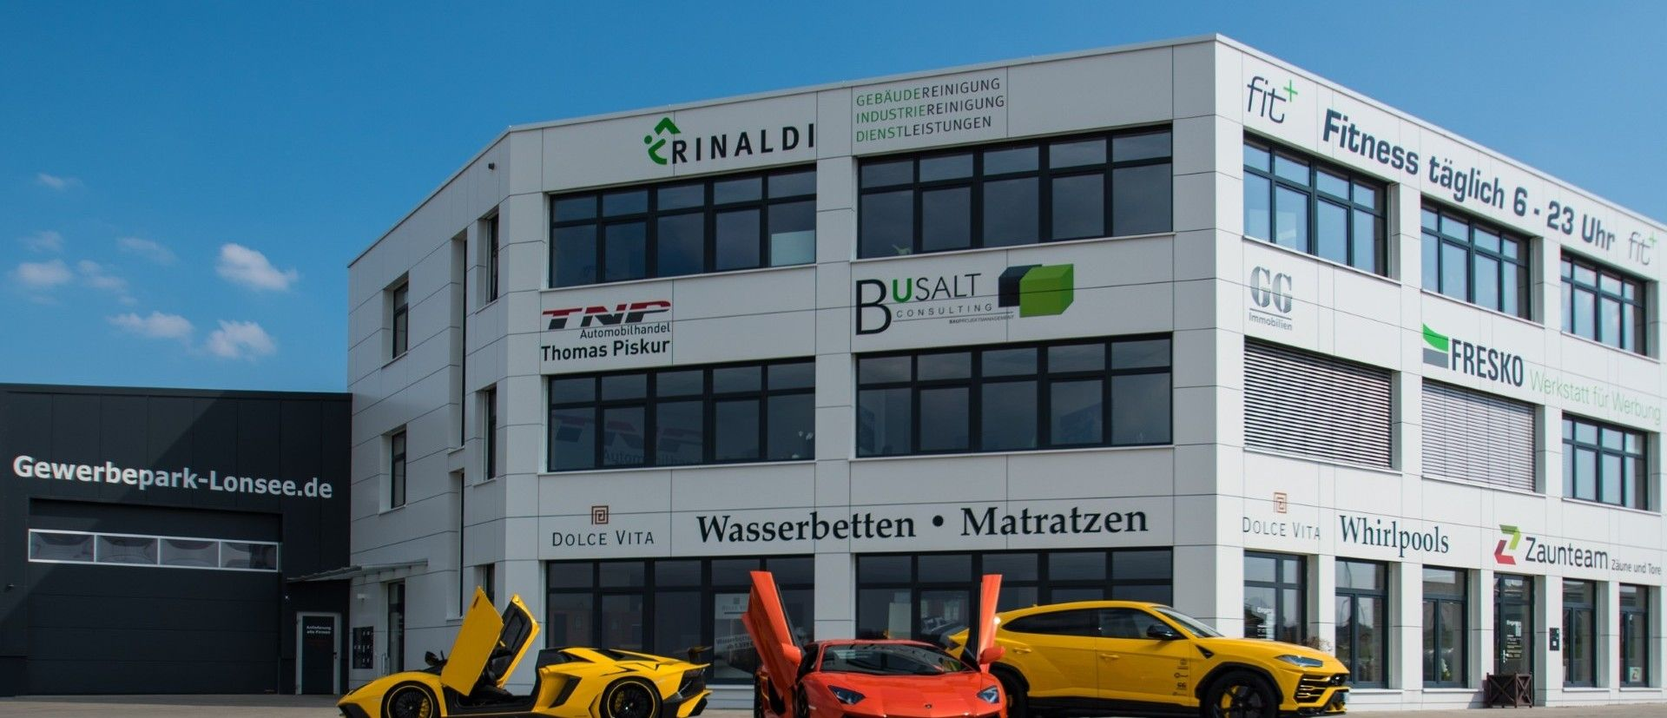
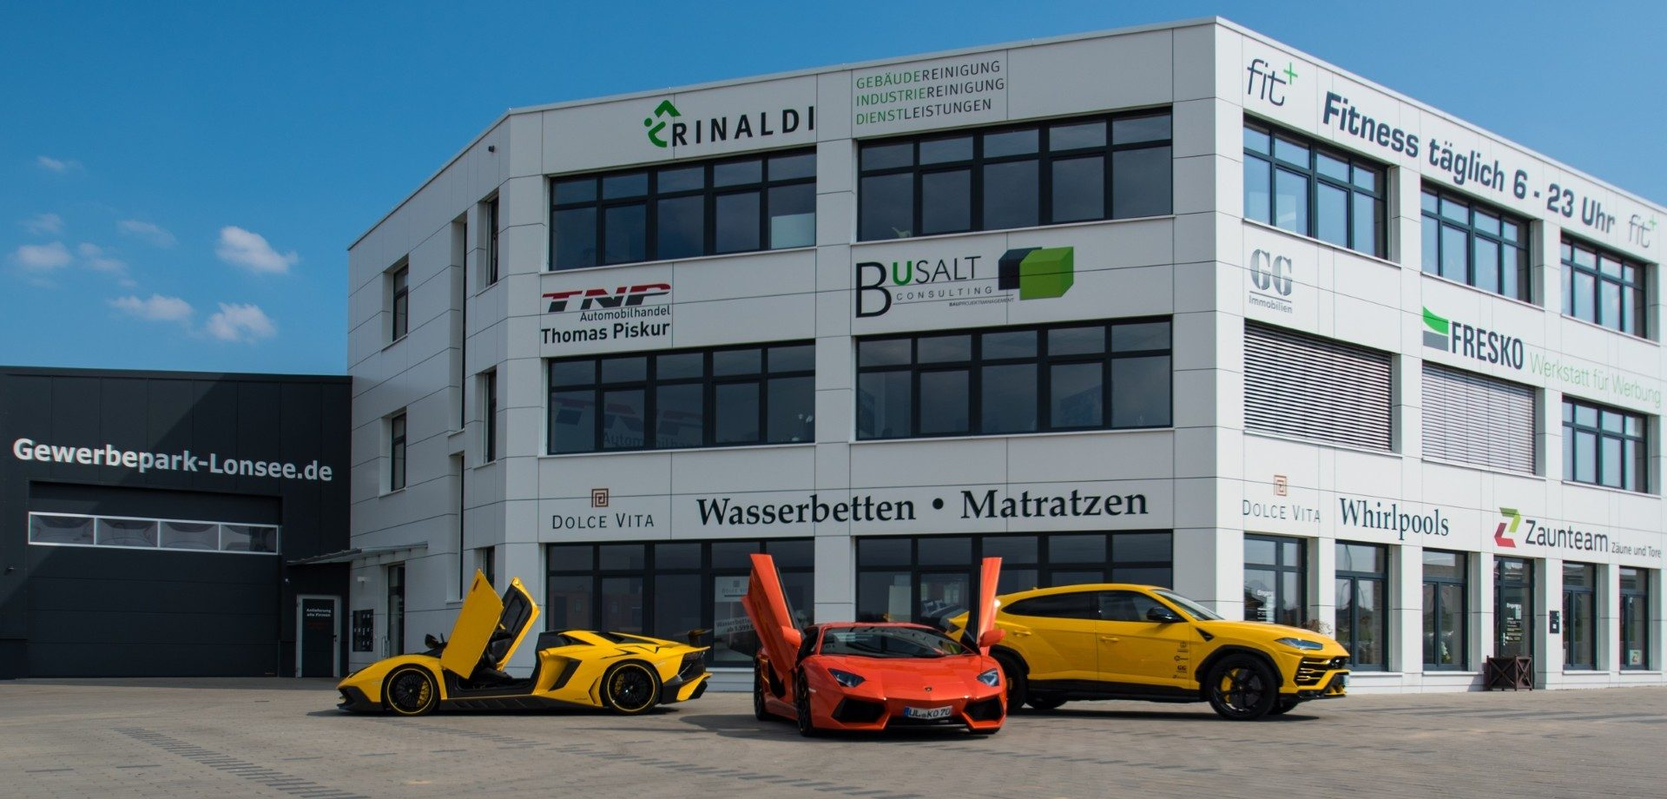
Weniger Leerraum, Fassadenbild mit vollständigen Autos
Claude-Session: https://claude.ai/code/session_0171xaWpFsmkeMWdEBsEzAY7

diff --git a/gewerbepark-lonsee/index.html b/gewerbepark-lonsee/index.html
@@ -17,7 +17,7 @@
 <link rel="apple-touch-icon" href="apple-touch-icon.png">
 <link rel="preload" href="assets/fonts/interd-500.woff" as="font" type="font/woff" crossorigin>
 <link rel="preload" href="assets/fonts/inter-400.woff" as="font" type="font/woff" crossorigin>
-<link rel="stylesheet" href="assets/css/style.css?v=202610161233">
+<link rel="stylesheet" href="assets/css/style.css?v=202610161240">
 <script type="application/ld+json">{"@context": "https://schema.org", "@type": "Organization", "name": "Gewerbepark Lonsee", "legalName": "GG Vertriebs- und Vermietung GbR", "url": "https://gewerbepark-lonsee.de", "telephone": "+491743232949", "logo": "https://gewerbepark-lonsee.de/apple-touch-icon.png", "address": {"@type": "PostalAddress", "streetAddress": "Nelkenstraße 14", "postalCode": "89173", "addressLocality": "Lonsee", "addressCountry": "DE"}}</script>
 </head>
 <body>
@@ -70,7 +70,7 @@
 <div class="finder-wrap"><section class="finder" id="wer-sitzt-wo-start" data-finder>
  <div class="finder-head"><div class="finder-intro"><span class="kicker">Mieter-Finder · Gewerbepark 1</span><h2>Wer sitzt <em>wo?</em></h2><p class="sub">Fahren Sie über die Fassade oder wählen Sie eine Firma aus der Liste.</p></div><a class="btn ghost sm" href="mieter.html">Alle Mieter im Überblick <span class="ar">→</span></a></div>
  <div class="finder-body">
-  <div class="finder-img"><picture><source srcset="assets/img/gp1-band.webp" type="image/webp"><img src="assets/img/gp1-band.jpg" alt="Gewerbepark 1, Fassade mit den Schildern der Mieter" loading="lazy" decoding="async"></picture><button class="spot" type="button" style="left:37.50%;top:19.37%" aria-label="Rinaldi" aria-expanded="false" data-name="Rinaldi" data-desc="Gebäudereinigung, -sanierung" data-logo="assets/logos/rinaldi.png" data-url="http://rinaldi-ulm.de/">1</button><button class="spot" type="button" style="left:34.58%;top:45.04%" aria-label="TNP" aria-expanded="false" data-name="TNP" data-desc="Automobilhandel" data-logo="assets/logos/tnp.png" data-url="https://tnp-auto.de/">2</button><button class="spot" type="button" style="left:50.00%;top:40.68%" aria-label="Busalt Consulting" aria-expanded="false" data-name="Busalt Consulting" data-desc="Bauprojektmanagement" data-logo="assets/logos/busalt.png" data-url="https://www.busalt-consulting.de/">3</button><button class="spot" type="button" style="left:73.75%;top:14.04%" aria-label="fit+" aria-expanded="false" data-name="fit+" data-desc="Fitnessstudio, täglich 6–23 Uhr" data-logo="assets/logos/fitplus.png" data-url="https://lonsee.fitplus-club.de/">4</button><button class="spot" type="button" style="left:74.17%;top:40.19%" aria-label="GG Immobilien" aria-expanded="false" data-name="GG Immobilien" data-desc="Immobilien" data-logo="assets/logos/gg.png" data-url="https://www.ggimmobilien.com/">5</button><button class="spot" type="button" style="left:85.00%;top:49.64%" aria-label="Fresko" aria-expanded="false" data-name="Fresko" data-desc="Werkstatt für Werbung" data-logo="assets/logos/fresko.png" data-url="https://www.fresko.de/">6</button><button class="spot" type="button" style="left:46.88%;top:72.64%" aria-label="Dolce Vita" aria-expanded="false" data-name="Dolce Vita" data-desc="Wasserbetten, Matratzen, Whirlpools" data-logo="assets/logos/dolcevita.png" data-url="https://www.dolcevita-schlafen.de/">7</button><button class="spot" type="button" style="left:88.12%;top:76.51%" aria-label="Zaunteam" aria-expanded="false" data-name="Zaunteam" data-desc="Zaunbau" data-logo="assets/logos/zaunteam.png" data-url="https://www.zaunteam.de/de/ihr-partner/89173-de-zaunteam-ulm/ueber-uns/">8</button></div>
+  <div class="finder-img"><picture><source srcset="assets/img/gp1-band.webp" type="image/webp"><img src="assets/img/gp1-band.jpg" alt="Gewerbepark 1, Fassade mit den Schildern der Mieter" loading="lazy" decoding="async"></picture><button class="spot" type="button" style="left:37.50%;top:15.24%" aria-label="Rinaldi" aria-expanded="false" data-name="Rinaldi" data-desc="Gebäudereinigung, -sanierung" data-logo="assets/logos/rinaldi.png" data-url="http://rinaldi-ulm.de/">1</button><button class="spot" type="button" style="left:34.58%;top:38.31%" aria-label="TNP" aria-expanded="false" data-name="TNP" data-desc="Automobilhandel" data-logo="assets/logos/tnp.png" data-url="https://tnp-auto.de/">2</button><button class="spot" type="button" style="left:50.00%;top:34.39%" aria-label="Busalt Consulting" aria-expanded="false" data-name="Busalt Consulting" data-desc="Bauprojektmanagement" data-logo="assets/logos/busalt.png" data-url="https://www.busalt-consulting.de/">3</button><button class="spot" type="button" style="left:73.75%;top:10.45%" aria-label="fit+" aria-expanded="false" data-name="fit+" data-desc="Fitnessstudio, täglich 6–23 Uhr" data-logo="assets/logos/fitplus.png" data-url="https://lonsee.fitplus-club.de/">4</button><button class="spot" type="button" style="left:74.17%;top:33.95%" aria-label="GG Immobilien" aria-expanded="false" data-name="GG Immobilien" data-desc="Immobilien" data-logo="assets/logos/gg.png" data-url="https://www.ggimmobilien.com/">5</button><button class="spot" type="button" style="left:85.00%;top:42.45%" aria-label="Fresko" aria-expanded="false" data-name="Fresko" data-desc="Werkstatt für Werbung" data-logo="assets/logos/fresko.png" data-url="https://www.fresko.de/">6</button><button class="spot" type="button" style="left:46.88%;top:63.12%" aria-label="Dolce Vita" aria-expanded="false" data-name="Dolce Vita" data-desc="Wasserbetten, Matratzen, Whirlpools" data-logo="assets/logos/dolcevita.png" data-url="https://www.dolcevita-schlafen.de/">7</button><button class="spot" type="button" style="left:88.12%;top:66.60%" aria-label="Zaunteam" aria-expanded="false" data-name="Zaunteam" data-desc="Zaunbau" data-logo="assets/logos/zaunteam.png" data-url="https://www.zaunteam.de/de/ihr-partner/89173-de-zaunteam-ulm/ueber-uns/">8</button></div>
   <ol class="legend" aria-label="Mieter an der Fassade"><li><button type="button"><span class="n">1</span><span class="lg-i"><img src="assets/logos/rinaldi.png" alt="" loading="lazy"></span><span><b>Rinaldi</b><small>Gebäudereinigung, -sanierung</small></span></button></li><li><button type="button"><span class="n">2</span><span class="lg-i"><img src="assets/logos/tnp.png" alt="" loading="lazy"></span><span><b>TNP</b><small>Automobilhandel</small></span></button></li><li><button type="button"><span class="n">3</span><span class="lg-i"><img src="assets/logos/busalt.png" alt="" loading="lazy"></span><span><b>Busalt Consulting</b><small>Bauprojektmanagement</small></span></button></li><li><button type="button"><span class="n">4</span><span class="lg-i"><img src="assets/logos/fitplus.png" alt="" loading="lazy"></span><span><b>fit+</b><small>Fitnessstudio, täglich 6–23 Uhr</small></span></button></li><li><button type="button"><span class="n">5</span><span class="lg-i"><img src="assets/logos/gg.png" alt="" loading="lazy"></span><span><b>GG Immobilien</b><small>Immobilien</small></span></button></li><li><button type="button"><span class="n">6</span><span class="lg-i"><img src="assets/logos/fresko.png" alt="" loading="lazy"></span><span><b>Fresko</b><small>Werkstatt für Werbung</small></span></button></li><li><button type="button"><span class="n">7</span><span class="lg-i"><img src="assets/logos/dolcevita.png" alt="" loading="lazy"></span><span><b>Dolce Vita</b><small>Wasserbetten, Matratzen, Whirlpools</small></span></button></li><li><button type="button"><span class="n">8</span><span class="lg-i"><img src="assets/logos/zaunteam.png" alt="" loading="lazy"></span><span><b>Zaunteam</b><small>Zaunbau</small></span></button></li></ol>
  </div>
  <div class="pop" hidden></div>
@@ -125,6 +125,6 @@
  </div>
  <div class="f-bottom"><span>© <span data-year>2026</span> Gewerbepark Lonsee · GG Vertriebs- und Vermietung GbR</span><nav aria-label="Rechtliches"><a href="impressum.html">Impressum</a><a href="datenschutz.html">Datenschutz</a><a href="lage.html">Anfahrt</a></nav></div>
 </div></footer>
-<script src="assets/js/main.js?v=202610161233" defer></script>
+<script src="assets/js/main.js?v=202610161240" defer></script>
 </body>
 </html>

diff --git a/gewerbepark-lonsee/mieter.html b/gewerbepark-lonsee/mieter.html
@@ -17,7 +17,7 @@
 <link rel="apple-touch-icon" href="apple-touch-icon.png">
 <link rel="preload" href="assets/fonts/interd-500.woff" as="font" type="font/woff" crossorigin>
 <link rel="preload" href="assets/fonts/inter-400.woff" as="font" type="font/woff" crossorigin>
-<link rel="stylesheet" href="assets/css/style.css?v=202610161233">
+<link rel="stylesheet" href="assets/css/style.css?v=202610161240">
 </head>
 <body>
 <a class="skip" href="#inhalt">Zum Inhalt springen</a>
@@ -44,7 +44,7 @@
 <section class="finder" id="wer-sitzt-wo" data-finder>
  <div class="finder-head"><div class="finder-intro"><span class="kicker">Mieter-Finder · Gewerbepark 1</span><h2>Wer sitzt <em>wo?</em></h2><p class="sub">Fahren Sie über die Fassade oder wählen Sie eine Firma aus der Liste.</p></div></div>
  <div class="finder-body">
-  <div class="finder-img"><picture><source srcset="assets/img/gp1-band.webp" type="image/webp"><img src="assets/img/gp1-band.jpg" alt="Gewerbepark 1, Fassade mit den Schildern der Mieter" loading="lazy" decoding="async"></picture><button class="spot" type="button" style="left:37.50%;top:19.37%" aria-label="Rinaldi" aria-expanded="false" data-name="Rinaldi" data-desc="Gebäudereinigung, -sanierung" data-logo="assets/logos/rinaldi.png" data-url="http://rinaldi-ulm.de/">1</button><button class="spot" type="button" style="left:34.58%;top:45.04%" aria-label="TNP" aria-expanded="false" data-name="TNP" data-desc="Automobilhandel" data-logo="assets/logos/tnp.png" data-url="https://tnp-auto.de/">2</button><button class="spot" type="button" style="left:50.00%;top:40.68%" aria-label="Busalt Consulting" aria-expanded="false" data-name="Busalt Consulting" data-desc="Bauprojektmanagement" data-logo="assets/logos/busalt.png" data-url="https://www.busalt-consulting.de/">3</button><button class="spot" type="button" style="left:73.75%;top:14.04%" aria-label="fit+" aria-expanded="false" data-name="fit+" data-desc="Fitnessstudio, täglich 6–23 Uhr" data-logo="assets/logos/fitplus.png" data-url="https://lonsee.fitplus-club.de/">4</button><button class="spot" type="button" style="left:74.17%;top:40.19%" aria-label="GG Immobilien" aria-expanded="false" data-name="GG Immobilien" data-desc="Immobilien" data-logo="assets/logos/gg.png" data-url="https://www.ggimmobilien.com/">5</button><button class="spot" type="button" style="left:85.00%;top:49.64%" aria-label="Fresko" aria-expanded="false" data-name="Fresko" data-desc="Werkstatt für Werbung" data-logo="assets/logos/fresko.png" data-url="https://www.fresko.de/">6</button><button class="spot" type="button" style="left:46.88%;top:72.64%" aria-label="Dolce Vita" aria-expanded="false" data-name="Dolce Vita" data-desc="Wasserbetten, Matratzen, Whirlpools" data-logo="assets/logos/dolcevita.png" data-url="https://www.dolcevita-schlafen.de/">7</button><button class="spot" type="button" style="left:88.12%;top:76.51%" aria-label="Zaunteam" aria-expanded="false" data-name="Zaunteam" data-desc="Zaunbau" data-logo="assets/logos/zaunteam.png" data-url="https://www.zaunteam.de/de/ihr-partner/89173-de-zaunteam-ulm/ueber-uns/">8</button></div>
+  <div class="finder-img"><picture><source srcset="assets/img/gp1-band.webp" type="image/webp"><img src="assets/img/gp1-band.jpg" alt="Gewerbepark 1, Fassade mit den Schildern der Mieter" loading="lazy" decoding="async"></picture><button class="spot" type="button" style="left:37.50%;top:15.24%" aria-label="Rinaldi" aria-expanded="false" data-name="Rinaldi" data-desc="Gebäudereinigung, -sanierung" data-logo="assets/logos/rinaldi.png" data-url="http://rinaldi-ulm.de/">1</button><button class="spot" type="button" style="left:34.58%;top:38.31%" aria-label="TNP" aria-expanded="false" data-name="TNP" data-desc="Automobilhandel" data-logo="assets/logos/tnp.png" data-url="https://tnp-auto.de/">2</button><button class="spot" type="button" style="left:50.00%;top:34.39%" aria-label="Busalt Consulting" aria-expanded="false" data-name="Busalt Consulting" data-desc="Bauprojektmanagement" data-logo="assets/logos/busalt.png" data-url="https://www.busalt-consulting.de/">3</button><button class="spot" type="button" style="left:73.75%;top:10.45%" aria-label="fit+" aria-expanded="false" data-name="fit+" data-desc="Fitnessstudio, täglich 6–23 Uhr" data-logo="assets/logos/fitplus.png" data-url="https://lonsee.fitplus-club.de/">4</button><button class="spot" type="button" style="left:74.17%;top:33.95%" aria-label="GG Immobilien" aria-expanded="false" data-name="GG Immobilien" data-desc="Immobilien" data-logo="assets/logos/gg.png" data-url="https://www.ggimmobilien.com/">5</button><button class="spot" type="button" style="left:85.00%;top:42.45%" aria-label="Fresko" aria-expanded="false" data-name="Fresko" data-desc="Werkstatt für Werbung" data-logo="assets/logos/fresko.png" data-url="https://www.fresko.de/">6</button><button class="spot" type="button" style="left:46.88%;top:63.12%" aria-label="Dolce Vita" aria-expanded="false" data-name="Dolce Vita" data-desc="Wasserbetten, Matratzen, Whirlpools" data-logo="assets/logos/dolcevita.png" data-url="https://www.dolcevita-schlafen.de/">7</button><button class="spot" type="button" style="left:88.12%;top:66.60%" aria-label="Zaunteam" aria-expanded="false" data-name="Zaunteam" data-desc="Zaunbau" data-logo="assets/logos/zaunteam.png" data-url="https://www.zaunteam.de/de/ihr-partner/89173-de-zaunteam-ulm/ueber-uns/">8</button></div>
   <ol class="legend" aria-label="Mieter an der Fassade"><li><button type="button"><span class="n">1</span><span class="lg-i"><img src="assets/logos/rinaldi.png" alt="" loading="lazy"></span><span><b>Rinaldi</b><small>Gebäudereinigung, -sanierung</small></span></button></li><li><button type="button"><span class="n">2</span><span class="lg-i"><img src="assets/logos/tnp.png" alt="" loading="lazy"></span><span><b>TNP</b><small>Automobilhandel</small></span></button></li><li><button type="button"><span class="n">3</span><span class="lg-i"><img src="assets/logos/busalt.png" alt="" loading="lazy"></span><span><b>Busalt Consulting</b><small>Bauprojektmanagement</small></span></button></li><li><button type="button"><span class="n">4</span><span class="lg-i"><img src="assets/logos/fitplus.png" alt="" loading="lazy"></span><span><b>fit+</b><small>Fitnessstudio, täglich 6–23 Uhr</small></span></button></li><li><button type="button"><span class="n">5</span><span class="lg-i"><img src="assets/logos/gg.png" alt="" loading="lazy"></span><span><b>GG Immobilien</b><small>Immobilien</small></span></button></li><li><button type="button"><span class="n">6</span><span class="lg-i"><img src="assets/logos/fresko.png" alt="" loading="lazy"></span><span><b>Fresko</b><small>Werkstatt für Werbung</small></span></button></li><li><button type="button"><span class="n">7</span><span class="lg-i"><img src="assets/logos/dolcevita.png" alt="" loading="lazy"></span><span><b>Dolce Vita</b><small>Wasserbetten, Matratzen, Whirlpools</small></span></button></li><li><button type="button"><span class="n">8</span><span class="lg-i"><img src="assets/logos/zaunteam.png" alt="" loading="lazy"></span><span><b>Zaunteam</b><small>Zaunbau</small></span></button></li></ol>
  </div>
  <div class="pop" hidden></div>
@@ -68,6 +68,6 @@
  </div>
  <div class="f-bottom"><span>© <span data-year>2026</span> Gewerbepark Lonsee · GG Vertriebs- und Vermietung GbR</span><nav aria-label="Rechtliches"><a href="impressum.html">Impressum</a><a href="datenschutz.html">Datenschutz</a><a href="lage.html">Anfahrt</a></nav></div>
 </div></footer>
-<script src="assets/js/main.js?v=202610161233" defer></script>
+<script src="assets/js/main.js?v=202610161240" defer></script>
 </body>
 </html>

diff --git a/gewerbepark-lonsee/kontakt.html b/gewerbepark-lonsee/kontakt.html
@@ -17,7 +17,7 @@
 <link rel="apple-touch-icon" href="apple-touch-icon.png">
 <link rel="preload" href="assets/fonts/interd-500.woff" as="font" type="font/woff" crossorigin>
 <link rel="preload" href="assets/fonts/inter-400.woff" as="font" type="font/woff" crossorigin>
-<link rel="stylesheet" href="assets/css/style.css?v=202610161233">
+<link rel="stylesheet" href="assets/css/style.css?v=202610161240">
 </head>
 <body>
 <a class="skip" href="#inhalt">Zum Inhalt springen</a>
@@ -100,6 +100,6 @@
  </div>
  <div class="f-bottom"><span>© <span data-year>2026</span> Gewerbepark Lonsee · GG Vertriebs- und Vermietung GbR</span><nav aria-label="Rechtliches"><a href="impressum.html">Impressum</a><a href="datenschutz.html">Datenschutz</a><a href="lage.html">Anfahrt</a></nav></div>
 </div></footer>
-<script src="assets/js/main.js?v=202610161233" defer></script>
+<script src="assets/js/main.js?v=202610161240" defer></script>
 </body>
 </html>

diff --git a/gewerbepark-lonsee/404.html b/gewerbepark-lonsee/404.html
@@ -17,7 +17,7 @@
 <link rel="apple-touch-icon" href="apple-touch-icon.png">
 <link rel="preload" href="assets/fonts/interd-500.woff" as="font" type="font/woff" crossorigin>
 <link rel="preload" href="assets/fonts/inter-400.woff" as="font" type="font/woff" crossorigin>
-<link rel="stylesheet" href="assets/css/style.css?v=202610161233">
+<link rel="stylesheet" href="assets/css/style.css?v=202610161240">
 </head>
 <body>
 <a class="skip" href="#inhalt">Zum Inhalt springen</a>
@@ -54,6 +54,6 @@
  </div>
  <div class="f-bottom"><span>© <span data-year>2026</span> Gewerbepark Lonsee · GG Vertriebs- und Vermietung GbR</span><nav aria-label="Rechtliches"><a href="impressum.html">Impressum</a><a href="datenschutz.html">Datenschutz</a><a href="lage.html">Anfahrt</a></nav></div>
 </div></footer>
-<script src="assets/js/main.js?v=202610161233" defer></script>
+<script src="assets/js/main.js?v=202610161240" defer></script>
 </body>
 </html>

diff --git a/gewerbepark-lonsee/aktuelles.html b/gewerbepark-lonsee/aktuelles.html
@@ -17,7 +17,7 @@
 <link rel="apple-touch-icon" href="apple-touch-icon.png">
 <link rel="preload" href="assets/fonts/interd-500.woff" as="font" type="font/woff" crossorigin>
 <link rel="preload" href="assets/fonts/inter-400.woff" as="font" type="font/woff" crossorigin>
-<link rel="stylesheet" href="assets/css/style.css?v=202610161233">
+<link rel="stylesheet" href="assets/css/style.css?v=202610161240">
 </head>
 <body>
 <a class="skip" href="#inhalt">Zum Inhalt springen</a>
@@ -74,6 +74,6 @@
  </div>
  <div class="f-bottom"><span>© <span data-year>2026</span> Gewerbepark Lonsee · GG Vertriebs- und Vermietung GbR</span><nav aria-label="Rechtliches"><a href="impressum.html">Impressum</a><a href="datenschutz.html">Datenschutz</a><a href="lage.html">Anfahrt</a></nav></div>
 </div></footer>
-<script src="assets/js/main.js?v=202610161233" defer></script>
+<script src="assets/js/main.js?v=202610161240" defer></script>
 </body>
 </html>

diff --git a/gewerbepark-lonsee/datenschutz.html b/gewerbepark-lonsee/datenschutz.html
@@ -17,7 +17,7 @@
 <link rel="apple-touch-icon" href="apple-touch-icon.png">
 <link rel="preload" href="assets/fonts/interd-500.woff" as="font" type="font/woff" crossorigin>
 <link rel="preload" href="assets/fonts/inter-400.woff" as="font" type="font/woff" crossorigin>
-<link rel="stylesheet" href="assets/css/style.css?v=202610161233">
+<link rel="stylesheet" href="assets/css/style.css?v=202610161240">
 </head>
 <body>
 <a class="skip" href="#inhalt">Zum Inhalt springen</a>
@@ -53,6 +53,6 @@
  </div>
  <div class="f-bottom"><span>© <span data-year>2026</span> Gewerbepark Lonsee · GG Vertriebs- und Vermietung GbR</span><nav aria-label="Rechtliches"><a href="impressum.html">Impressum</a><a href="datenschutz.html">Datenschutz</a><a href="lage.html">Anfahrt</a></nav></div>
 </div></footer>
-<script src="assets/js/main.js?v=202610161233" defer></script>
+<script src="assets/js/main.js?v=202610161240" defer></script>
 </body>
 </html>

diff --git a/gewerbepark-lonsee/gewerbepark-1.html b/gewerbepark-lonsee/gewerbepark-1.html
@@ -17,7 +17,7 @@
 <link rel="apple-touch-icon" href="apple-touch-icon.png">
 <link rel="preload" href="assets/fonts/interd-500.woff" as="font" type="font/woff" crossorigin>
 <link rel="preload" href="assets/fonts/inter-400.woff" as="font" type="font/woff" crossorigin>
-<link rel="stylesheet" href="assets/css/style.css?v=202610161233">
+<link rel="stylesheet" href="assets/css/style.css?v=202610161240">
 </head>
 <body>
 <a class="skip" href="#inhalt">Zum Inhalt springen</a>
@@ -67,6 +67,6 @@
  </div>
  <div class="f-bottom"><span>© <span data-year>2026</span> Gewerbepark Lonsee · GG Vertriebs- und Vermietung GbR</span><nav aria-label="Rechtliches"><a href="impressum.html">Impressum</a><a href="datenschutz.html">Datenschutz</a><a href="lage.html">Anfahrt</a></nav></div>
 </div></footer>
-<script src="assets/js/main.js?v=202610161233" defer></script>
+<script src="assets/js/main.js?v=202610161240" defer></script>
 </body>
 </html>

diff --git a/gewerbepark-lonsee/gewerbepark-2.html b/gewerbepark-lonsee/gewerbepark-2.html
@@ -17,7 +17,7 @@
 <link rel="apple-touch-icon" href="apple-touch-icon.png">
 <link rel="preload" href="assets/fonts/interd-500.woff" as="font" type="font/woff" crossorigin>
 <link rel="preload" href="assets/fonts/inter-400.woff" as="font" type="font/woff" crossorigin>
-<link rel="stylesheet" href="assets/css/style.css?v=202610161233">
+<link rel="stylesheet" href="assets/css/style.css?v=202610161240">
 </head>
 <body>
 <a class="skip" href="#inhalt">Zum Inhalt springen</a>
@@ -66,6 +66,6 @@
  </div>
  <div class="f-bottom"><span>© <span data-year>2026</span> Gewerbepark Lonsee · GG Vertriebs- und Vermietung GbR</span><nav aria-label="Rechtliches"><a href="impressum.html">Impressum</a><a href="datenschutz.html">Datenschutz</a><a href="lage.html">Anfahrt</a></nav></div>
 </div></footer>
-<script src="assets/js/main.js?v=202610161233" defer></script>
+<script src="assets/js/main.js?v=202610161240" defer></script>
 </body>
 </html>

diff --git a/gewerbepark-lonsee/gewerbepark-3.html b/gewerbepark-lonsee/gewerbepark-3.html
@@ -17,7 +17,7 @@
 <link rel="apple-touch-icon" href="apple-touch-icon.png">
 <link rel="preload" href="assets/fonts/interd-500.woff" as="font" type="font/woff" crossorigin>
 <link rel="preload" href="assets/fonts/inter-400.woff" as="font" type="font/woff" crossorigin>
-<link rel="stylesheet" href="assets/css/style.css?v=202610161233">
+<link rel="stylesheet" href="assets/css/style.css?v=202610161240">
 </head>
 <body>
 <a class="skip" href="#inhalt">Zum Inhalt springen</a>
@@ -68,6 +68,6 @@
  </div>
  <div class="f-bottom"><span>© <span data-year>2026</span> Gewerbepark Lonsee · GG Vertriebs- und Vermietung GbR</span><nav aria-label="Rechtliches"><a href="impressum.html">Impressum</a><a href="datenschutz.html">Datenschutz</a><a href="lage.html">Anfahrt</a></nav></div>
 </div></footer>
-<script src="assets/js/main.js?v=202610161233" defer></script>
+<script src="assets/js/main.js?v=202610161240" defer></script>
 </body>
 </html>

diff --git a/gewerbepark-lonsee/impressum.html b/gewerbepark-lonsee/impressum.html
@@ -17,7 +17,7 @@
 <link rel="apple-touch-icon" href="apple-touch-icon.png">
 <link rel="preload" href="assets/fonts/interd-500.woff" as="font" type="font/woff" crossorigin>
 <link rel="preload" href="assets/fonts/inter-400.woff" as="font" type="font/woff" crossorigin>
-<link rel="stylesheet" href="assets/css/style.css?v=202610161233">
+<link rel="stylesheet" href="assets/css/style.css?v=202610161240">
 </head>
 <body>
 <a class="skip" href="#inhalt">Zum Inhalt springen</a>
@@ -57,6 +57,6 @@
  </div>
  <div class="f-bottom"><span>© <span data-year>2026</span> Gewerbepark Lonsee · GG Vertriebs- und Vermietung GbR</span><nav aria-label="Rechtliches"><a href="impressum.html">Impressum</a><a href="datenschutz.html">Datenschutz</a><a href="lage.html">Anfahrt</a></nav></div>
 </div></footer>
-<script src="assets/js/main.js?v=202610161233" defer></script>
+<script src="assets/js/main.js?v=202610161240" defer></script>
 </body>
 </html>

diff --git a/gewerbepark-lonsee/lage.html b/gewerbepark-lonsee/lage.html
@@ -17,7 +17,7 @@
 <link rel="apple-touch-icon" href="apple-touch-icon.png">
 <link rel="preload" href="assets/fonts/interd-500.woff" as="font" type="font/woff" crossorigin>
 <link rel="preload" href="assets/fonts/inter-400.woff" as="font" type="font/woff" crossorigin>
-<link rel="stylesheet" href="assets/css/style.css?v=202610161233">
+<link rel="stylesheet" href="assets/css/style.css?v=202610161240">
 </head>
 <body>
 <a class="skip" href="#inhalt">Zum Inhalt springen</a>
@@ -75,6 +75,6 @@
  </div>
  <div class="f-bottom"><span>© <span data-year>2026</span> Gewerbepark Lonsee · GG Vertriebs- und Vermietung GbR</span><nav aria-label="Rechtliches"><a href="impressum.html">Impressum</a><a href="datenschutz.html">Datenschutz</a><a href="lage.html">Anfahrt</a></nav></div>
 </div></footer>
-<script src="assets/js/main.js?v=202610161233" defer></script>
+<script src="assets/js/main.js?v=202610161240" defer></script>
 </body>
 </html>

diff --git a/gewerbepark-lonsee/standorte.html b/gewerbepark-lonsee/standorte.html
@@ -17,7 +17,7 @@
 <link rel="apple-touch-icon" href="apple-touch-icon.png">
 <link rel="preload" href="assets/fonts/interd-500.woff" as="font" type="font/woff" crossorigin>
 <link rel="preload" href="assets/fonts/inter-400.woff" as="font" type="font/woff" crossorigin>
-<link rel="stylesheet" href="assets/css/style.css?v=202610161233">
+<link rel="stylesheet" href="assets/css/style.css?v=202610161240">
 </head>
 <body>
 <a class="skip" href="#inhalt">Zum Inhalt springen</a>
@@ -68,6 +68,6 @@
  </div>
  <div class="f-bottom"><span>© <span data-year>2026</span> Gewerbepark Lonsee · GG Vertriebs- und Vermietung GbR</span><nav aria-label="Rechtliches"><a href="impressum.html">Impressum</a><a href="datenschutz.html">Datenschutz</a><a href="lage.html">Anfahrt</a></nav></div>
 </div></footer>
-<script src="assets/js/main.js?v=202610161233" defer></script>
+<script src="assets/js/main.js?v=202610161240" defer></script>
 </body>
 </html>
